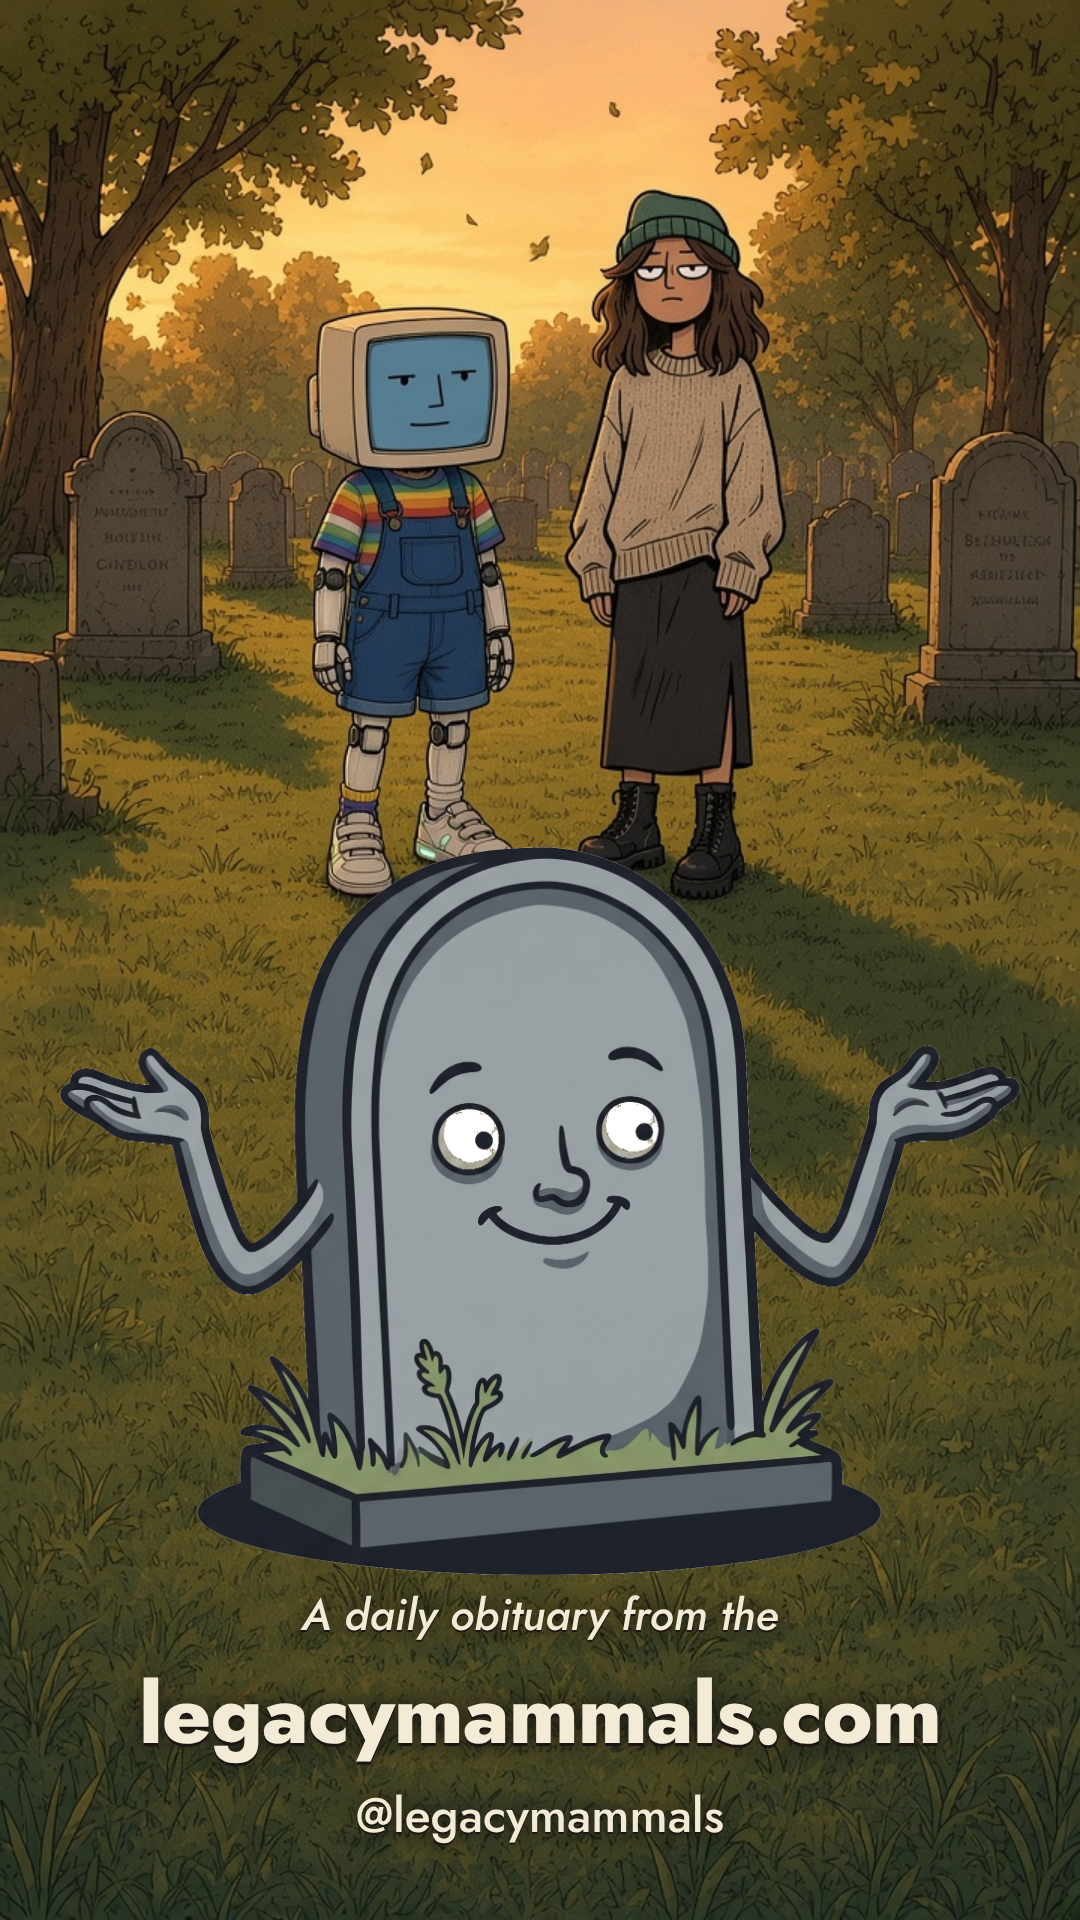
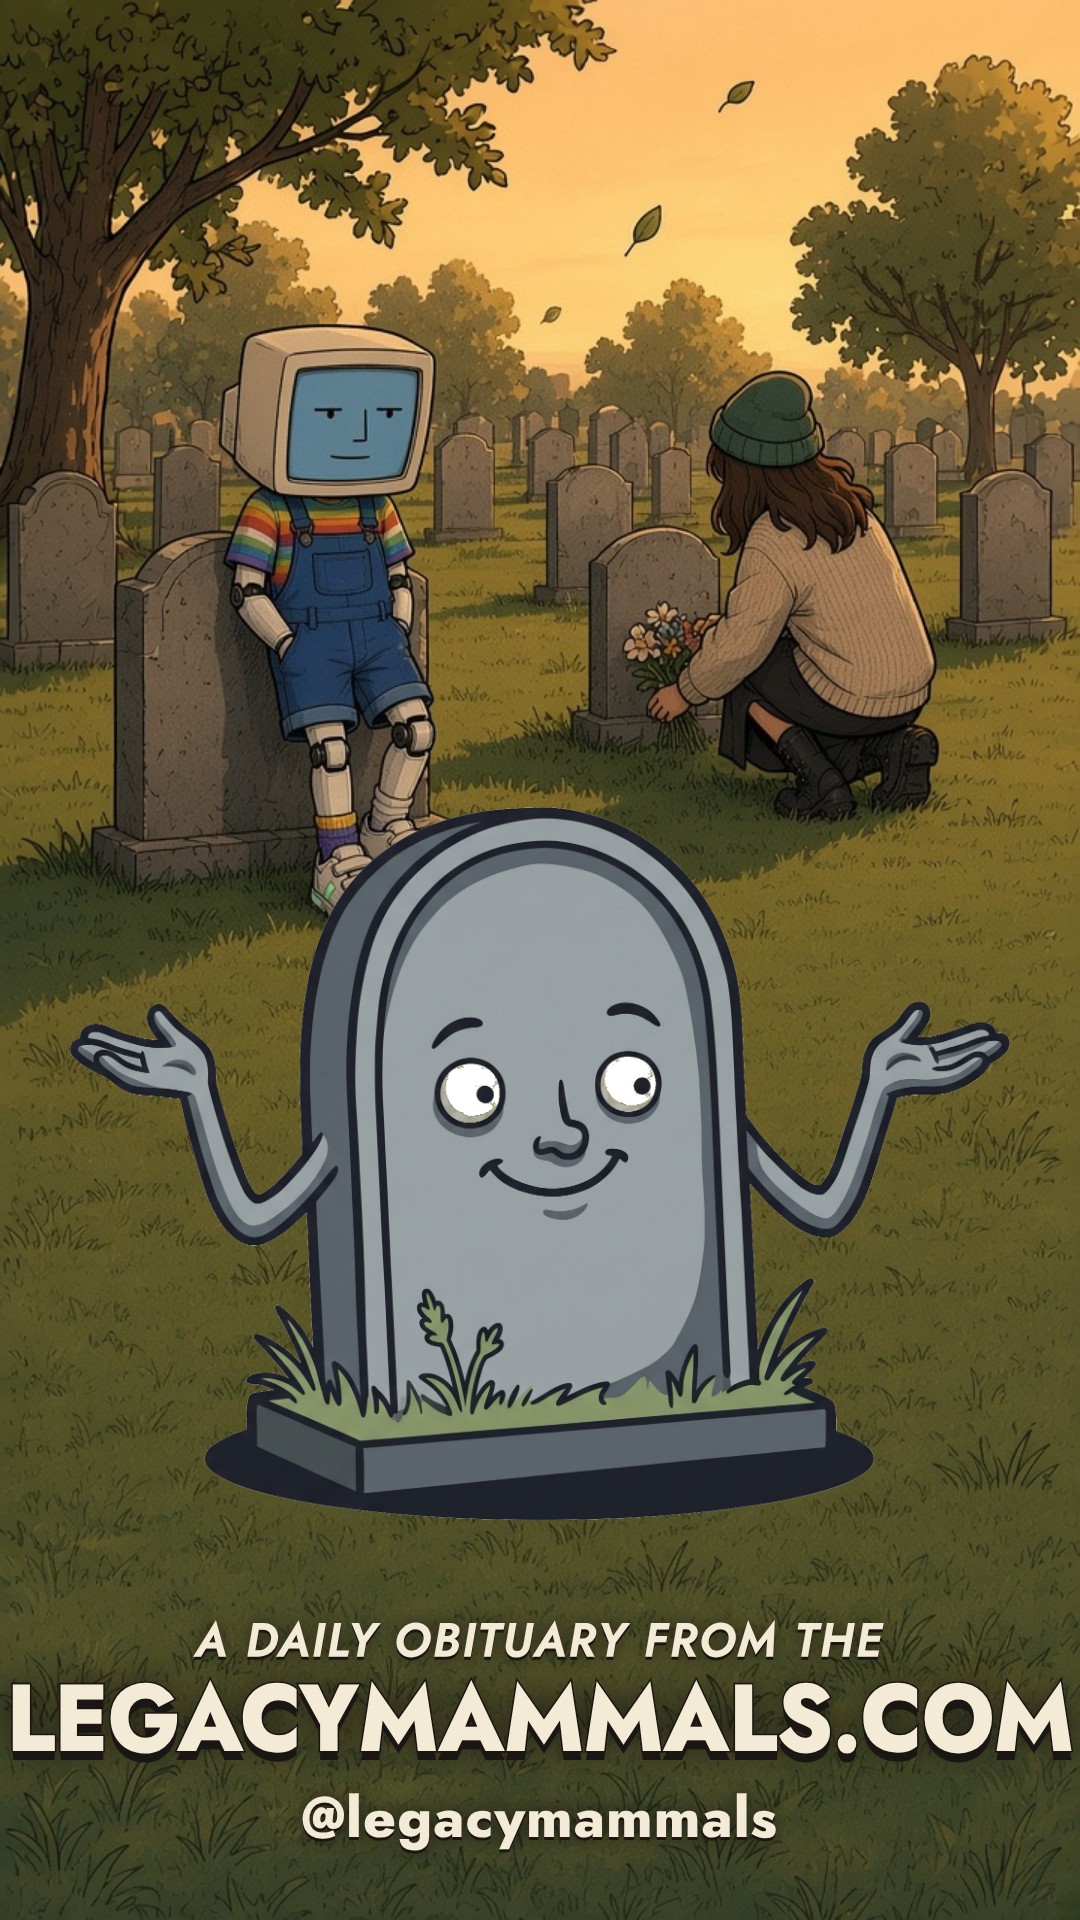
End card: movie-title type; cemetery with the two of them further back
Claude-Session: https://claude.ai/code/session_01UT8Dn4BonstVXXBgMgCnTf

diff --git a/reels/no37/cards.js b/reels/no37/cards.js
@@ -10,7 +10,7 @@ const fs = require("fs");
 
 const here = __dirname, fonts = path.resolve(here, "..", "fonts");
 const INK = "#1B1613", BEIGE = "#E8DEC6", META = "#6B5A4E", OLIVE = "#5E7A3A", CREAM = "#F3EBD6", BROWN = "#5C3E2A";
-const ROOM = path.join(here, "frame-11-cemetery-2.jpeg"); // the standing end card: the cemetery, the two of them in the back
+const ROOM = path.join(here, "frame-11-cemetery-far-2.jpeg"); // the standing end card: the cemetery, the two of them in the back
 const MARK = path.resolve(here, "..", "..", "img", "mark.png"); // the shrugging headstone
 
 const face = `@font-face{font-family:Jost;font-weight:800;src:url(file://${fonts}/Jost-800-Heavy.ttf)}
@@ -39,13 +39,13 @@ h2{font-weight:700;font-size:54px;line-height:1.18;color:${OLIVE};margin-top:70p
 const end = `<!doctype html><meta charset="utf-8"><style>${face}
 body{background:${INK}}
 img.bg{position:absolute;inset:0;width:1080px;height:1920px;object-fit:cover}
-.stone{position:absolute;left:50%;bottom:345px;transform:translateX(-50%);width:960px;height:auto}
-.text{position:absolute;left:0;right:0;bottom:70px;display:flex;flex-direction:column;align-items:center;gap:6px;text-align:center}
-.line{font-size:44px;font-weight:500;font-style:italic;color:${CREAM};text-shadow:0 2px 0 ${INK},0 0 18px rgba(27,22,19,.9)}
-.site{font-size:84px;font-weight:800;letter-spacing:-.01em;color:${CREAM};text-shadow:0 3px 0 ${INK},0 0 22px rgba(27,22,19,.9)}
-.at{font-size:48px;font-weight:500;color:${CREAM};text-shadow:0 2px 0 ${INK},0 0 18px rgba(27,22,19,.9)}
+.stone{position:absolute;left:50%;bottom:400px;transform:translateX(-50%);width:940px;height:auto}
+.text{position:absolute;left:0;right:0;bottom:62px;display:flex;flex-direction:column;align-items:center;gap:0;text-align:center}
+.line{font-size:46px;font-weight:700;font-style:italic;letter-spacing:.06em;text-transform:uppercase;color:${CREAM};text-shadow:0 3px 0 ${INK},0 0 16px rgba(27,22,19,.8);margin-bottom:2px}
+.site{font-size:88px;line-height:1;font-weight:800;letter-spacing:-.01em;color:${CREAM};-webkit-text-stroke:3px ${INK};paint-order:stroke fill;text-shadow:0 8px 0 ${INK},0 0 30px rgba(27,22,19,.9);transform:scaleY(1.08)}
+.at{font-size:56px;font-weight:800;letter-spacing:.02em;color:${CREAM};text-shadow:0 3px 0 ${INK},0 0 16px rgba(27,22,19,.8);margin-top:14px}
 </style><body><img class="bg" src="file://${ROOM}"><img class="stone" src="file://${MARK}">
-<div class="text"><div class="line">A daily obituary from the</div><div class="site">legacymammals.com</div><div class="at">@legacymammals</div></div></body>`;
+<div class="text"><div class="line">A daily obituary from the</div><div class="site">LEGACYMAMMALS.COM</div><div class="at">@legacymammals</div></div></body>`;
 
 (async () => {
   const browser = await chromium.launch();
